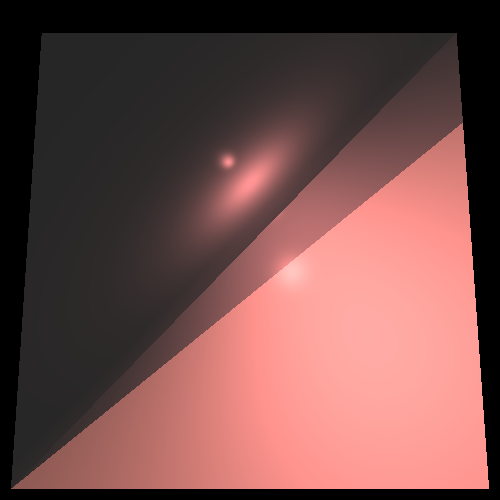
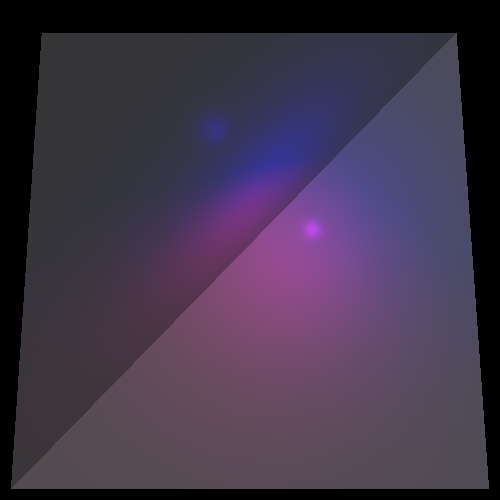
fix multiLightsTriangles test

diff --git a/unittests/lighting/LightsTests.java b/unittests/lighting/LightsTests.java
@@ -209,23 +209,12 @@ public class LightsTests {
     @Test
     public void trianglesMultiLightSources() {
 
-        scene2.getGeometries().add(
-                triangle1.setMaterial(new Material().setKd(0.5).setKs(0.5).setShininess(300)),
-                triangle2.setMaterial(new Material().setKd(0.5).setKs(0.5).setShininess(300)));
+        scene2.getGeometries().add(triangle1, triangle2);
 
         Collections.addAll(scene2.getLights(),
-                           new SpotLight(
-                                   new Color(500, 250, 250),
-                                   new Point(20, -10, -50),
-                                   new Vector(2, -2, -1))
-                                   .setKl(0.0001).setKq(0.000005),
-                           new PointLight(
-                                   new Color(500, 250, 250),
-                                   new Point(10, 20, -100))
-                                   .setKl(0.0005).setKq(0.0005),
-                           new DirectionalLight(
-                                   new Color(300, 150, 130),
-                                   new Vector(10, 3, -8)));
+                           new SpotLight(new Color(RED), trPL, trDL).setKl(0.001).setKq(0.0001),
+                           new PointLight(new Color(BLUE), trPL).setKl(0.001).setKq(0.0002),
+                           new DirectionalLight(new Color(GRAY), trDL));
 
         ImageWriter imageWriter = new ImageWriter("13 multiLightsTriangles", 500, 500);
 
